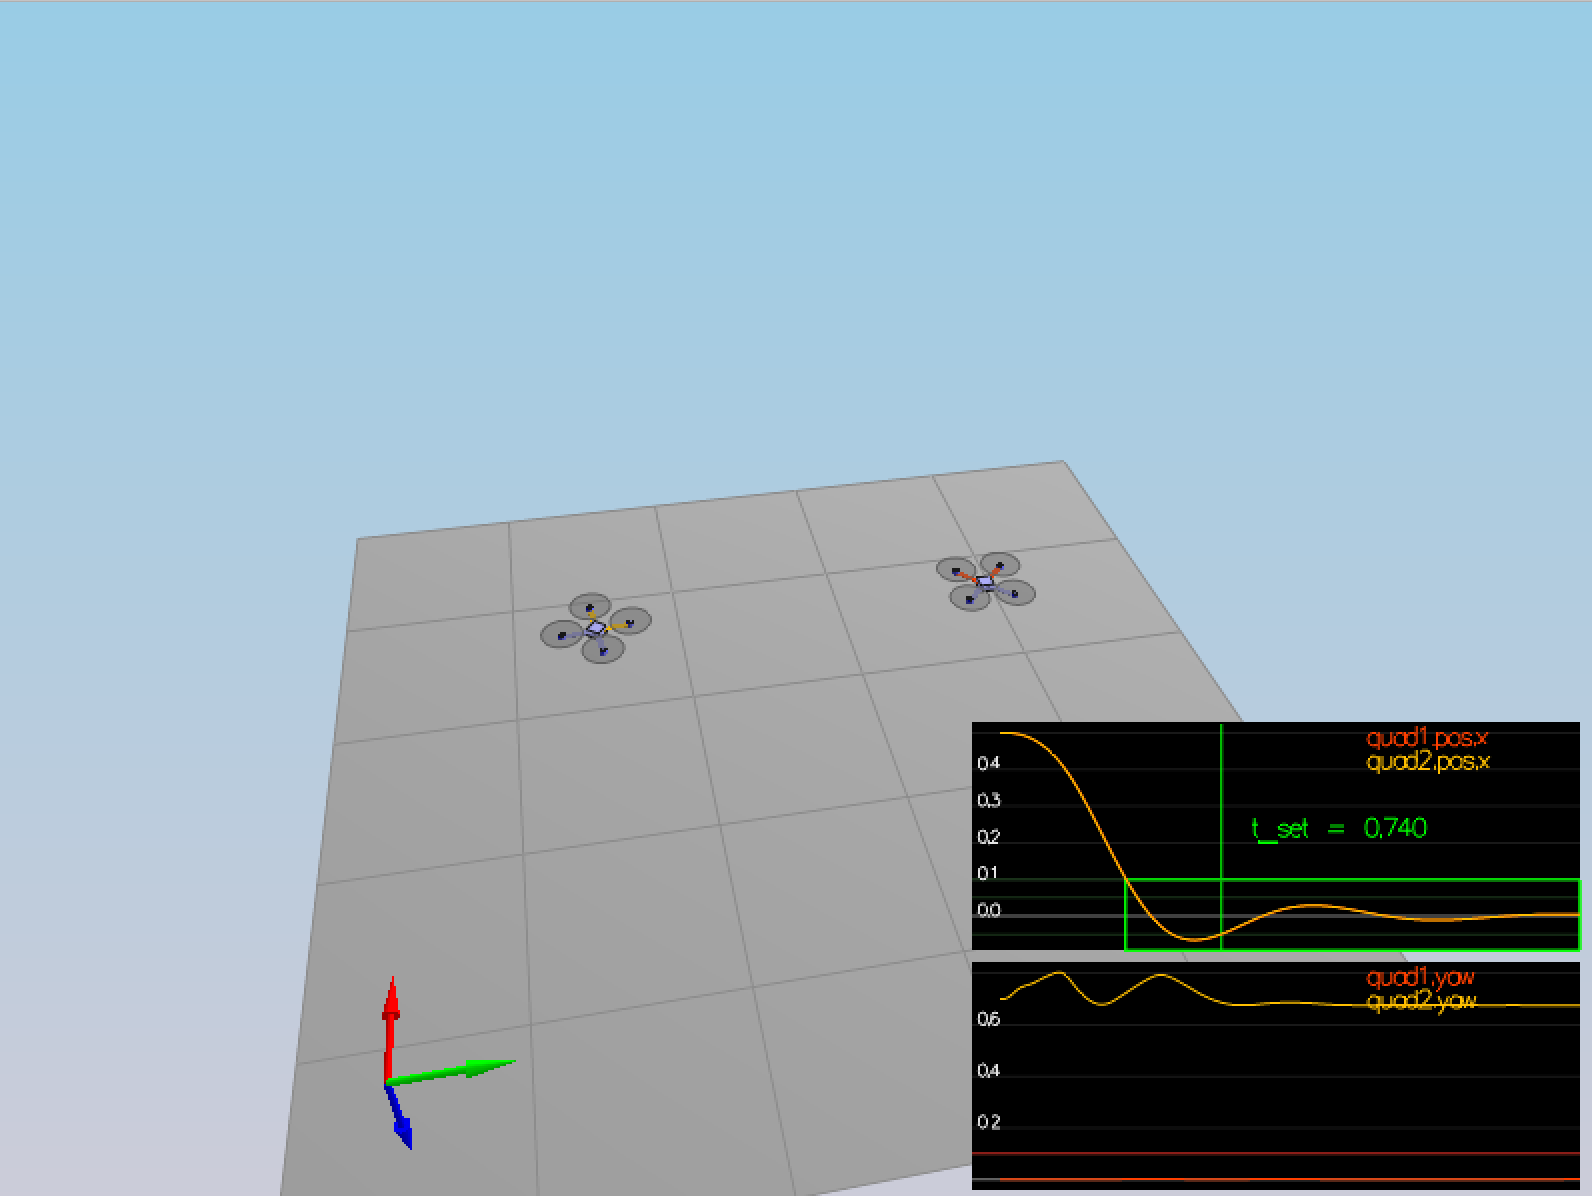
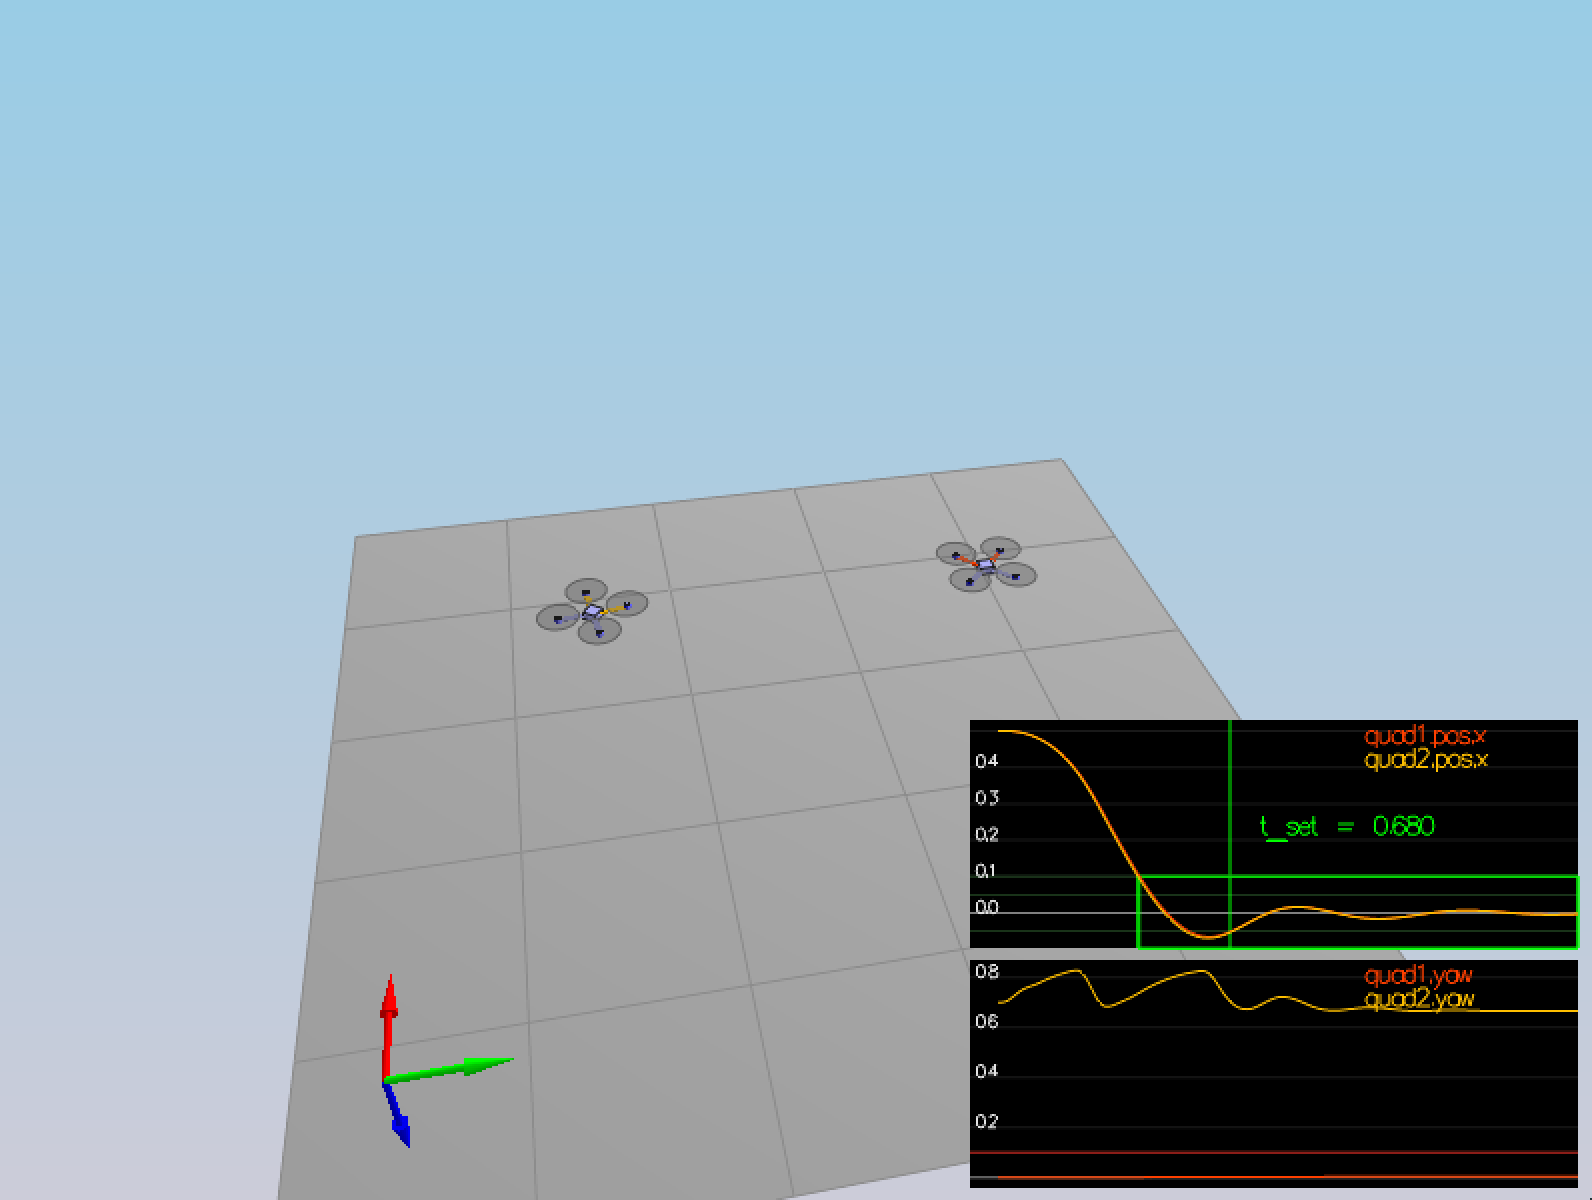
[master] re-tuned altitude control. 	modified:   README.md 	modified:   images/3_PositionControl_step1.png 	modified:   src/QuadControl.cpp

diff --git a/src/QuadControl.cpp b/src/QuadControl.cpp
@@ -186,14 +186,9 @@ float QuadControl::AltitudeControl(float posZCmd, float velZCmd, float posZ, flo
   float thrust = 0;
 
   ////////////////////////////// BEGIN STUDENT CODE ///////////////////////////
-  float posZError = posZCmd - posZ;  
-  integratedAltitudeError += posZError * dt;
-  float p = kpPosZ * posZError;
-  float d = kpVelZ * (velZCmd - velZ) + velZ;
-  float i = KiPosZ * integratedAltitudeError;
-  float accel = (p + d + i + accelZCmd - CONST_GRAVITY) / R(2, 2);
-  accel = CONSTRAIN(accel, -maxAscentRate / dt, maxDescentRate / dt);
-  thrust = - mass * accel;
+  velZCmd = CONSTRAIN(velZCmd, -maxAscentRate, maxDescentRate);
+  float desAccel = kpVelZ * (velZCmd - velZ) + accelZCmd - CONST_GRAVITY;
+  thrust = - mass * (desAccel / R(2, 2));  
   /////////////////////////////// END STUDENT CODE ////////////////////////////
   
   return thrust;
@@ -260,12 +255,12 @@ float QuadControl::YawControl(float yawCmd, float yaw)
 
   float yawRateCmd=0;
   ////////////////////////////// BEGIN STUDENT CODE ///////////////////////////
-  float error = yawCmd - yaw;
-  error = fmodf(error, 2.f * F_PI); 
-  if (error > F_PI) { error -= 2.f * F_PI; }
-  else if (error < -F_PI) { error += 2.f * F_PI; }
+  //float error = yawCmd - yaw;
+  //error = fmodf(error, 2.f * F_PI); 
+  //if (error > F_PI) { error -= 2.f * F_PI; }
+  //else if (error < -F_PI) { error += 2.f * F_PI; }
 
-  yawRateCmd = kpYaw * error;
+  //yawRateCmd = kpYaw * error;
   /////////////////////////////// END STUDENT CODE ////////////////////////////
 
   return yawRateCmd;

diff --git a/README.md b/README.md
@@ -237,12 +237,9 @@ Codes implemented in ``AltitudeControl()``:
 
 ```
    ////////////////////////////// BEGIN STUDENT CODE ///////////////////////////
-   float posZError = posZCmd - posZ;
-   float p = kpPosZ * posZError;
-   float d = kpVelZ * (velZCmd - velZ) + velZ;
-   float accel = (p + d + accelZCmd - CONST_GRAVITY) / R(2, 2);
-   accel = CONSTRAIN(accel, -maxAscentRate / dt, maxDescentRate / dt);
-   thrust = - mass * accel;
+   velZCmd = CONSTRAIN(velZCmd, -maxAscentRate, maxDescentRate);
+   float desAccel = kpVelZ * (velZCmd - velZ) + accelZCmd - CONST_GRAVITY;
+   thrust = - mass * (desAccel / R(2, 2));
    /////////////////////////////// END STUDENT CODE ////////////////////////////
 ```
 
@@ -254,8 +251,8 @@ kpPosXY = 4
 kpPosZ = 4
 
 # Velocity control gains
-kpVelXY = 8
-kpVelZ = 8
+kpVelXY = 16
+kpVelZ = 16
 ```
 
 Run the result:
